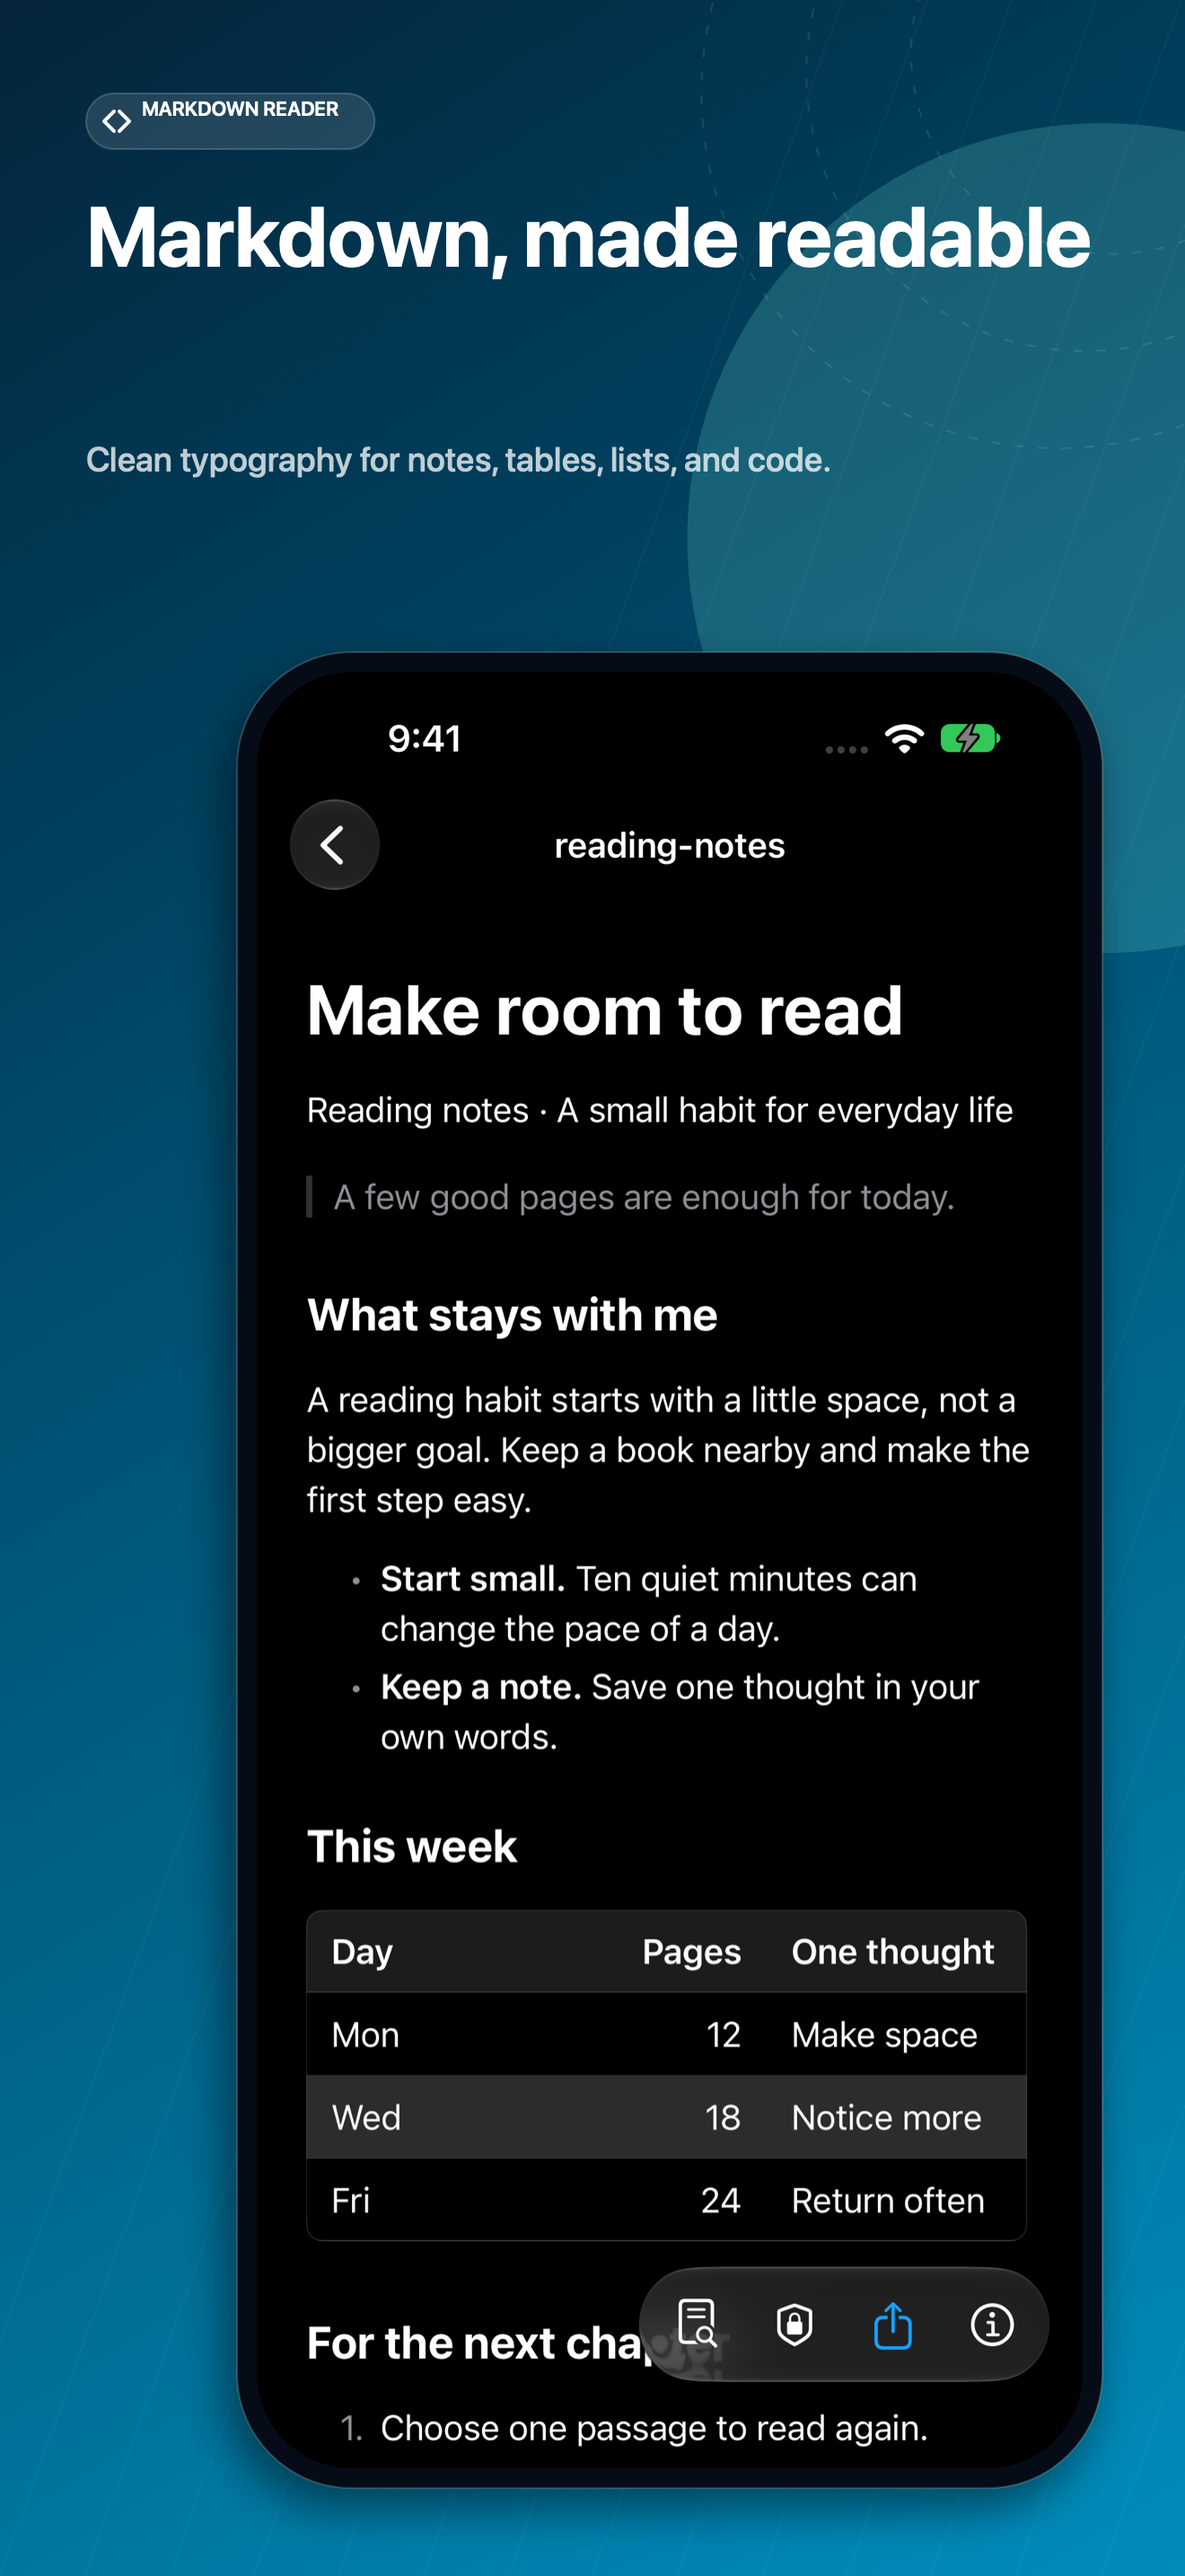
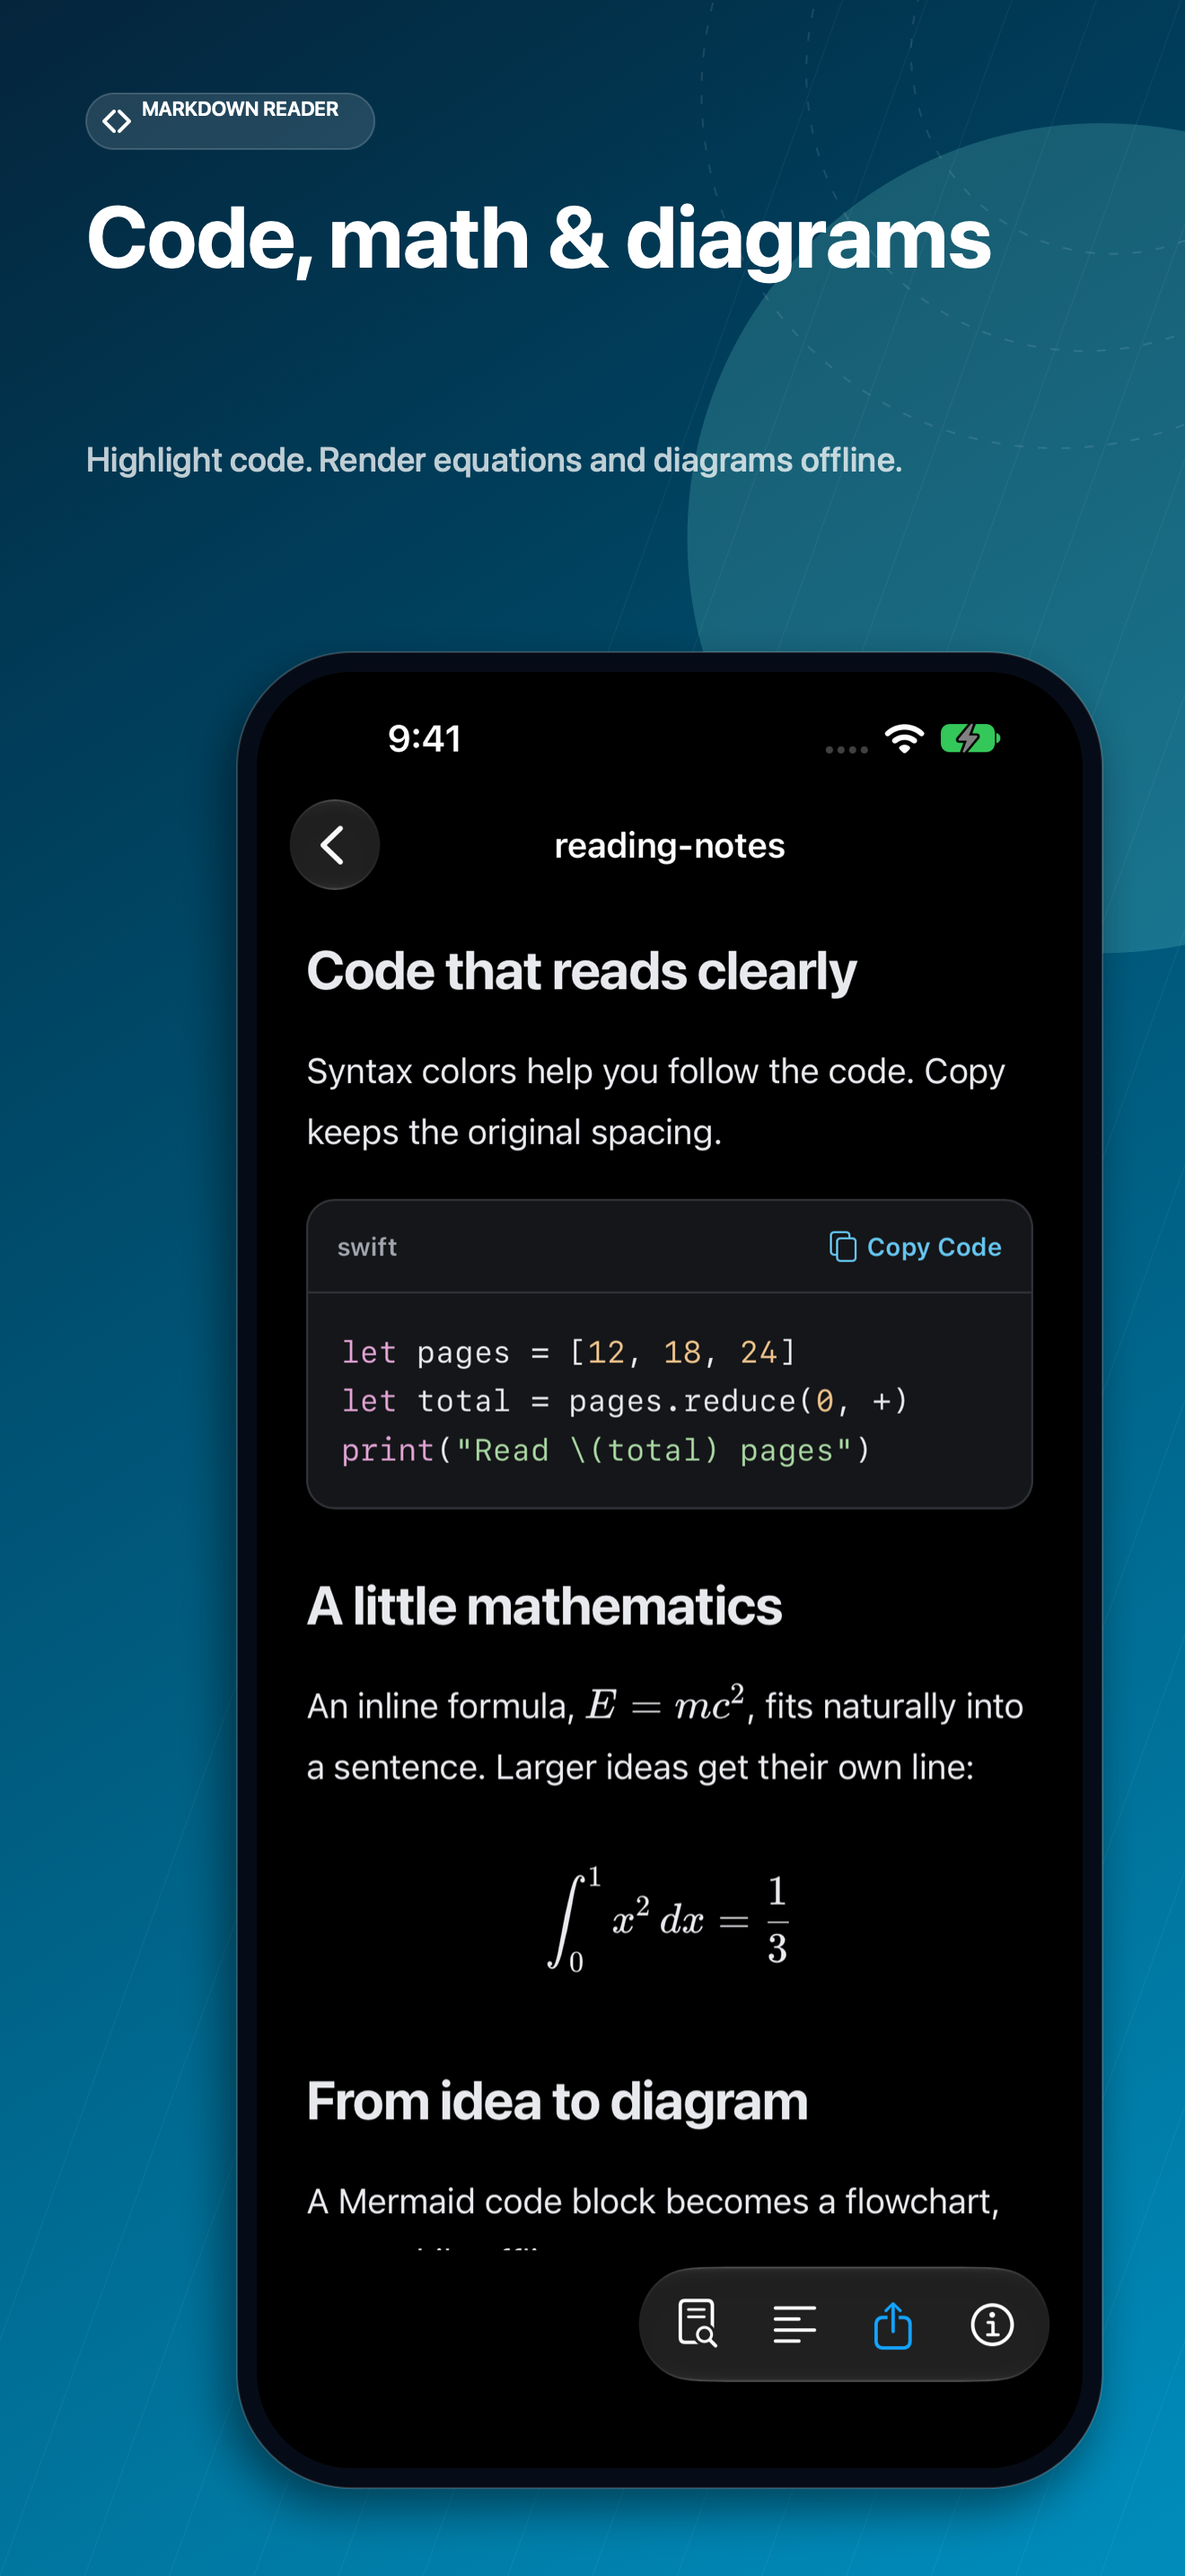
Prepare version 1.5 build 10 and localized store assets

diff --git a/docs/app-store-screenshots/verification-1.5.md b/docs/app-store-screenshots/verification-1.5.md
@@ -1,0 +1,54 @@
+# Screenshot verification — 1.5
+
+Captured and visually verified on 2026-09-30 (Asia/Tokyo).
+
+The store set contains five iPhone and five iPad images for each of `en-US`,
+`zh-Hans`, and `ja`. All six contact sheets were reviewed. The 10 root-level
+compatibility PNGs are byte-identical to the English copies.
+
+## Capture provenance
+
+The 12 Markdown and ZIP images (`03` and `04`) are fresh native captures of
+**1.5 (10)**. The app source is commit
+`dfea35dfbb45d4aaeb7c9b1c65e13e29aba71559` plus the release version/build changes.
+The capture build used Debug and an isolated UI-test library through
+`HTML_PREVIEWER_UI_TESTS=1`. No production Swift source changed during capture.
+
+The remaining 18 home, HTML, and Settings sources are retained from the
+1.4 captures documented in `verification-1.4.md`. Those screens are unchanged;
+their provenance remains 1.4 (8). All 30 canvases were regenerated using the
+existing compositor, with localized Markdown and ZIP feature captions updated.
+
+| Simulator | Runtime | Native capture | Store canvas |
+| --- | --- | --- | --- |
+| iPhone 18 Pro | iOS 27.0 | 1206 × 2622 | 1320 × 2868 |
+| iPad Pro 12.9-inch (6th generation) | iOS 18.5 | 2048 × 2732 | 2064 × 2752 |
+
+## Visual checks
+
+- Markdown shows syntax-colored code, the copy action, and rendered inline and
+  display mathematics. The iPad viewport also contains the complete Mermaid
+  flowchart; the iPhone viewport ends near the diagram section heading.
+- The iPhone ZIP image shows the package navigation bar, the three-page count,
+  and links to the HTML detail and Markdown appendix pages.
+- The iPad ZIP image shows the page picker with all three entries and its search
+  field. Each locale uses localized UI and sample content.
+- Captions and device frames fit the canvases. No blank/loading content,
+  wrong-language sample, or screenshot transition remains.
+- New iPhone captures use dark appearance; new iPad captures use light
+  appearance. Original appearance settings were preserved.
+
+## Local evidence and restoration
+
+Evidence is in `/Users/user/html_preview/DerivedData/Release1.5/`:
+
+- `ScreenshotSources/`: all 30 native sources, including retained images.
+- `ScreenshotPreviews/`: six reviewed contact sheets.
+- `screenshot-verification.json`: image dimensions and SHA-256 hashes.
+- `screenshot-build-provenance.json`: capture build metadata and source hashes.
+
+Only simulators `F56A2968-F35C-4455-8A34-43DCC6CDC319` and
+`9216FE52-CA0E-4113-8ED5-19B4BF9755CE` were used. Status-bar overrides were
+cleared and both simulators returned to their original shutdown state. No
+physical device was used for these captures. Capture evidence is separate from
+Release archive validation, App Store upload processing, and review status.
